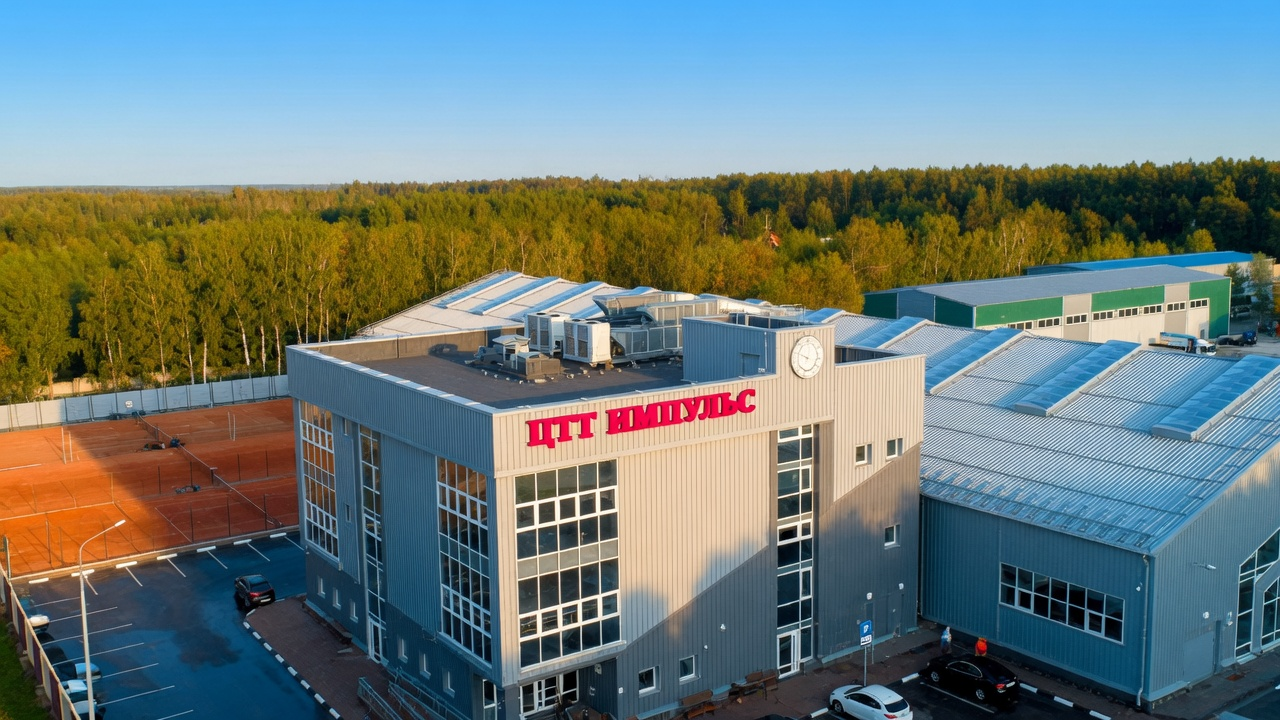
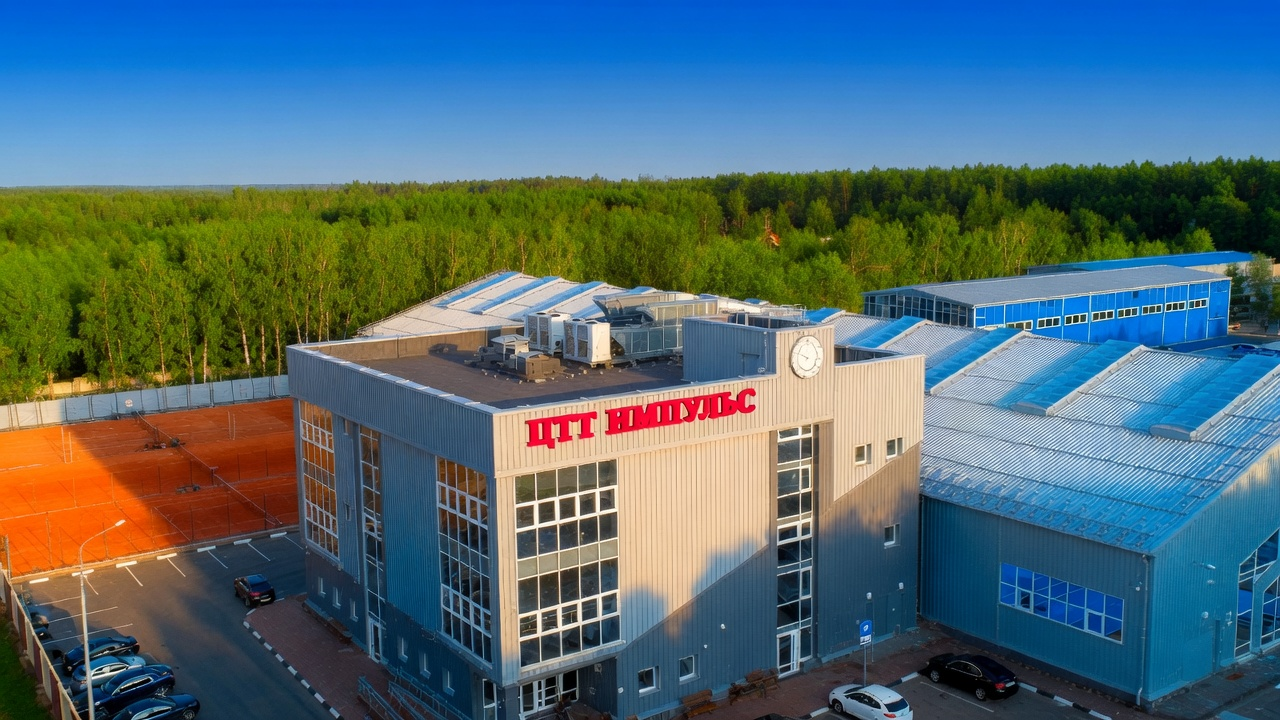
feat: удалён раздел «Как выглядит ЦТТ Импульс» (галерея)

diff --git a/src/components/sections/services.tsx b/src/components/sections/services.tsx
@@ -201,16 +201,27 @@ function SurfaceCard({
   return (
     <Reveal delay={index * 0.06} className="h-full">
       <div className="group card-media-dark">
-        <MediaImage
-          media={item.image}
-          ratio="photo"
-          rounded={false}
-          overlay
-          position={item.imagePosition ?? "center"}
-          className="shrink-0 rounded-none"
-          imageClassName="object-cover transition-transform duration-700 ease-premium group-hover:scale-105 saturate-[1.12]"
-          sizes="(max-width: 768px) 100vw, 33vw"
-        />
+        {item.label === "Настольный теннис" ? (
+          <div className="relative aspect-[21/9] shrink-0 overflow-hidden">
+            <img
+              src={item.image?.src}
+              alt={item.image?.alt || item.label}
+              className="absolute inset-0 h-full w-full object-cover transition-transform duration-700 ease-premium group-hover:scale-105 saturate-[1.12]"
+            />
+            <div className="absolute inset-0 bg-gradient-to-b from-black/10 via-black/20 to-black/40" />
+          </div>
+        ) : (
+          <MediaImage
+            media={item.image}
+            ratio="photo"
+            rounded={false}
+            overlay
+            position={item.imagePosition ?? "center"}
+            className="shrink-0 rounded-none"
+            imageClassName="object-cover transition-transform duration-700 ease-premium group-hover:scale-105 saturate-[1.12]"
+            sizes="(max-width: 768px) 100vw, 33vw"
+          />
+        )}
         <div className="flex flex-1 flex-col p-5 sm:p-6">
           <p className="text-[11px] font-bold uppercase tracking-[0.18em] text-sand/80">
             {item.label}

diff --git a/src/app/page.tsx b/src/app/page.tsx
@@ -23,7 +23,6 @@ export default function Home() {
         <Booking />
         <Pricing />
         <Team />
-        <Gallery />
         <News />
         <Contacts />
       </main>